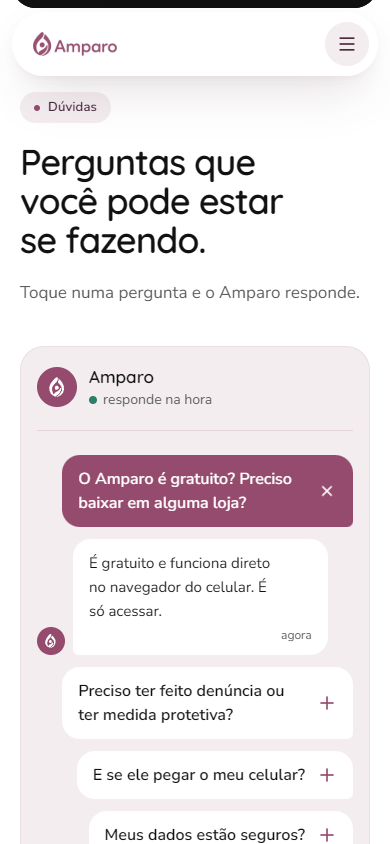
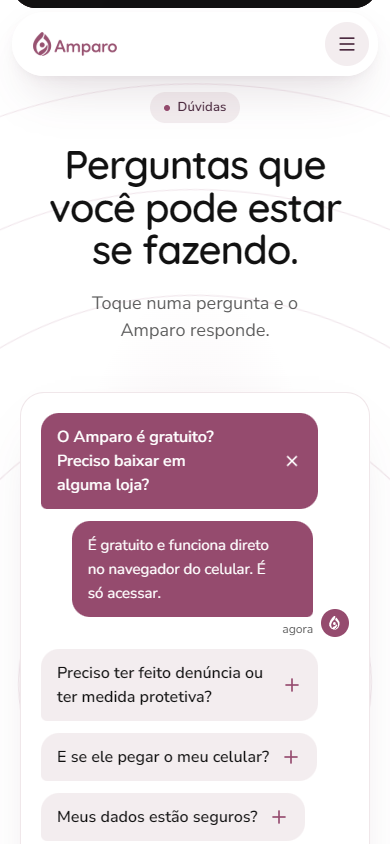
feat: FAQ em uma coluna com aneis ao fundo, perguntas a esquerda e respostas vinho a direita

diff --git a/src/sections/Faq.tsx b/src/sections/Faq.tsx
@@ -1,36 +1,27 @@
 import { useGSAP } from '@gsap/react'
 import clsx from 'clsx'
-import { Plus, Smartphone } from 'lucide-react'
+import { Plus } from 'lucide-react'
 import { useEffect, useId, useRef, useState } from 'react'
 import { BrandDrop } from '../components/ui/BrandDrop'
-import { Button } from '../components/ui/Button'
 import { Chip } from '../components/ui/Chip'
-import { EmergencyBar } from '../components/ui/EmergencyBar'
+import { HeroRings } from '../components/ui/HeroRings'
 import { RichText } from '../components/ui/RichText'
 import { Container, SectionHeading } from '../components/ui/Section'
-import { cta, faq, type Rich } from '../content/copy'
-import { APP_URL } from '../lib/config'
+import { faq, type Rich } from '../content/copy'
 import { gsap } from '../lib/gsap'
 import { useReducedMotion } from '../lib/useReducedMotion'
 
 const BORDER = 'border border-[rgb(228_211_217/0.55)]'
-const SOFT_SHADOW = 'shadow-[0_1px_2px_rgb(75_42_63/0.04),0_16px_40px_-24px_rgb(75_42_63/0.16)]'
 
 /** Texto puro de uma resposta (para o JSON-LD). */
 const plain = (parts: Rich) =>
   parts.map((p) => (typeof p === 'string' ? p : 'strong' in p ? p.strong : p.em)).join('')
 
 /** Avatar do Amparo: círculo vinho com a gota branca. */
-function Avatar({ size = 'sm' }: { size?: 'sm' | 'md' }) {
+function Avatar() {
   return (
-    <span
-      aria-hidden
-      className={clsx(
-        'grid shrink-0 place-items-center rounded-full bg-vinho text-white',
-        size === 'md' ? 'size-10' : 'size-7',
-      )}
-    >
-      <BrandDrop className={size === 'md' ? 'h-5' : 'h-3.5'} />
+    <span aria-hidden className="grid size-7 shrink-0 place-items-center rounded-full bg-vinho text-white">
+      <BrandDrop className="h-3.5" />
     </span>
   )
 }
@@ -106,7 +97,7 @@ export function Faq() {
       mm.add('(prefers-reduced-motion: no-preference)', () => {
         const q = gsap.utils.selector(root)
         gsap.from(q('[data-faq-q]'), {
-          x: 24,
+          x: -24,
           autoAlpha: 0,
           filter: 'blur(6px)',
           duration: 0.6,
@@ -115,6 +106,9 @@ export function Faq() {
           clearProps: 'filter,transform',
           scrollTrigger: { trigger: q('[data-faq-panel]')[0], start: 'top 80%', once: true },
         })
+        // Anéis ao fundo: giro muito lento + respiração suave (não disputam com o card).
+        gsap.to(q('[data-faq-rings]'), { rotate: 360, duration: 240, ease: 'none', repeat: -1 })
+        gsap.fromTo(q('[data-faq-rings]'), { opacity: 0.7 }, { opacity: 1, duration: 5, ease: 'sine.inOut', yoyo: true, repeat: -1 })
       })
       return () => mm.revert()
     },
@@ -136,65 +130,59 @@ export function Faq() {
       ref={root}
       id="faq"
       aria-labelledby="faq-title"
-      className="bg-branco py-[72px] lg:py-[120px]"
+      className="relative isolate overflow-clip bg-branco py-[72px] lg:py-[120px]"
     >
       <script type="application/ld+json" dangerouslySetInnerHTML={{ __html: JSON.stringify(jsonLd) }} />
-      <Container className="flex flex-col gap-10 lg:grid lg:grid-cols-12 lg:gap-16">
-        {/* Esquerda: no desktop fixa; no celular os filhos entram na ordem título → painel → CTA */}
-        <div className="max-lg:contents lg:sticky lg:top-[120px] lg:col-span-5 lg:self-start">
-          <div className="max-lg:order-1">
-            <div data-appear>
-              <Chip dot>{faq.chip}</Chip>
-            </div>
-            <SectionHeading
-              id="faq-title"
-              className="mt-5 !text-[clamp(2.25rem,3.6vw,3.25rem)] !leading-[1.08] font-semibold"
-            >
-              {faq.h2}
-            </SectionHeading>
-            <p data-appear className="mt-5 lead text-pretty text-texto-secundario">
-              {faq.sub}
-            </p>
-          </div>
-          <div className="max-lg:order-3 lg:mt-10">
-            <div className={clsx('rounded-card-lg bg-white p-6', BORDER, SOFT_SHADOW)}>
-              <div className="flex items-center gap-3">
-                <Avatar size="md" />
-                <p className="font-display text-lg font-semibold text-texto">{faq.ajuda}</p>
-              </div>
-              <Button href={APP_URL} target="_blank" rel="noopener" icon={<Smartphone />} className="mt-5">
-                {cta.acessar}
-              </Button>
-            </div>
-            {/* 190 e 180 sempre visíveis no FAQ (não negociável do CLAUDE.md) */}
-            <EmergencyBar compact className="mt-4 [&_ul]:lg:flex-col [&_ul]:lg:gap-3" />
+      {/* Fundo: brilho rosado do centro + anéis do hero atrás do card */}
+      <div aria-hidden className="pointer-events-none absolute inset-0 -z-10">
+        <div
+          className="absolute inset-0"
+          style={{ background: 'radial-gradient(55% 50% at 50% 58%, rgb(149 75 110 / 0.12) 0%, transparent 70%)' }}
+        />
+        <div className="absolute top-[58%] left-1/2 size-0">
+          <div data-faq-rings className="absolute top-0 left-0 size-0">
+            <HeroRings className="top-0 left-0" />
           </div>
         </div>
+      </div>
 
-        {/* Direita: painel de conversa */}
+      <Container>
+        {/* Cabeçalho centralizado */}
+        <div className="mx-auto flex max-w-[760px] flex-col items-center text-center">
+          <div data-appear>
+            <Chip dot>{faq.chip}</Chip>
+          </div>
+          <SectionHeading
+            id="faq-title"
+            className="mt-5 max-w-[22ch] !text-[clamp(2.5rem,4.2vw,3.75rem)] !leading-[1.06] font-semibold"
+          >
+            {faq.h2}
+          </SectionHeading>
+          <p
+            data-appear
+            className="mt-5 max-w-[560px] text-[clamp(1.125rem,1.6vw,1.375rem)] leading-[1.5] text-pretty text-texto-secundario"
+          >
+            {faq.sub}
+          </p>
+        </div>
+
+        {/* Card da conversa */}
         <div
           data-faq-panel
-          className={clsx('rounded-[24px] bg-superficie p-4 max-lg:order-2 md:p-8 lg:col-span-7', BORDER)}
+          className={clsx(
+            'mx-auto mt-12 max-w-[880px] rounded-[24px] bg-white p-5 shadow-[0_24px_60px_-30px_rgb(75_42_63/0.22)] md:p-10',
+            BORDER,
+          )}
         >
-          <div className="flex items-center gap-3 border-b border-[rgb(228_211_217/0.9)] pb-5">
-            <Avatar size="md" />
-            <div>
-              <p className="font-display font-semibold text-texto">{faq.painel.nome}</p>
-              <p className="flex items-center gap-1.5 text-sm text-texto-secundario">
-                <span aria-hidden className="size-2 rounded-full bg-confirma" />
-                {faq.painel.status}
-              </p>
-            </div>
-          </div>
-
-          <ul className="mt-6 space-y-3">
+          <ul className="space-y-3">
             {faq.items.map((f, i) => {
               const isOpen = open === i
               const bid = `${uid}-q${i}`
               const rid = `${uid}-a${i}`
               return (
                 <li key={f.q}>
-                  <div className="flex justify-end">
+                  {/* Pergunta (usuária) à esquerda */}
+                  <div className="flex justify-start">
                     <button
                       id={bid}
                       type="button"
@@ -203,11 +191,11 @@ export function Faq() {
                       aria-controls={rid}
                       onClick={() => setOpen(isOpen ? -1 : i)}
                       className={clsx(
-                        'flex min-h-11 max-w-[92%] cursor-pointer items-center gap-3 rounded-[18px] rounded-br-[6px] px-4 py-3 text-left text-base font-semibold transition-[background-color,color,translate] duration-300 ease-amparo md:max-w-[85%]',
+                        'flex min-h-11 max-w-[90%] cursor-pointer items-center gap-3 rounded-[18px] rounded-bl-[6px] px-4 py-3 text-left text-base font-semibold transition-[background-color,color,translate] duration-300 ease-amparo md:max-w-[80%]',
                         'focus-visible:outline-2 focus-visible:outline-offset-2 focus-visible:outline-vinho',
                         isOpen
                           ? 'bg-vinho text-white'
-                          : 'bg-white text-texto hover:-translate-x-0.5 hover:bg-[rgb(149_75_110/0.06)] motion-reduce:hover:translate-x-0',
+                          : 'bg-superficie text-texto hover:translate-x-0.5 hover:bg-[rgb(149_75_110/0.1)] motion-reduce:hover:translate-x-0',
                       )}
                     >
                       <span className="flex-1 text-pretty">{f.q}</span>
@@ -222,6 +210,7 @@ export function Faq() {
                     </button>
                   </div>
 
+                  {/* Resposta (Amparo) à direita */}
                   <div
                     id={rid}
                     role="region"
@@ -230,32 +219,31 @@ export function Faq() {
                     hidden={i !== 0}
                     className="overflow-hidden"
                   >
-                    <div className="flex items-end gap-2 pt-3 md:max-w-[85%] max-md:max-w-[92%]">
-                      <Avatar />
+                    <div className="ml-auto flex max-w-[90%] items-end justify-end gap-2 pt-3 md:max-w-[80%]">
                       {/* Digitação (some quando a resposta chega) */}
                       <div
                         data-faq-typing
                         aria-hidden
                         style={{ display: 'none' }}
-                        className="flex items-center gap-1 rounded-[18px] rounded-bl-[6px] bg-white px-4 py-3.5"
+                        className="flex items-center gap-1 rounded-[18px] rounded-br-[6px] bg-vinho px-4 py-3.5"
                       >
                         {[0, 1, 2].map((k) => (
                           <span
                             key={k}
-                            className="size-2 animate-[faq-dot_1s_ease-in-out_infinite] rounded-full bg-vinho/40"
+                            className="size-2 animate-[faq-dot_1s_ease-in-out_infinite] rounded-full bg-white/70"
                             style={{ animationDelay: `${k * 0.15}s` }}
                           />
                         ))}
                       </div>
-                      <div
-                        data-faq-answer
-                        className="rounded-[18px] rounded-bl-[6px] bg-white px-4 py-3 text-[15px] leading-[1.6] text-pretty text-texto"
-                      >
-                        <p>
-                          <RichText parts={f.a} strongClassName="font-bold text-vinho-profundo" />
-                        </p>
+                      <div data-faq-answer className="min-w-0">
+                        <div className="rounded-[18px] rounded-br-[6px] bg-vinho px-4 py-3 text-[15px] leading-[1.6] text-pretty text-white">
+                          <p>
+                            <RichText parts={f.a} strongClassName="font-bold text-white" />
+                          </p>
+                        </div>
                         <p className="mt-1 text-right text-xs text-texto-secundario">{faq.painel.agora}</p>
                       </div>
+                      <Avatar />
                     </div>
                   </div>
                 </li>

diff --git a/src/content/copy.ts b/src/content/copy.ts
@@ -353,8 +353,7 @@ export const faq = {
   chip: 'Dúvidas',
   h2: 'Perguntas que você pode estar se fazendo.',
   sub: 'Toque numa pergunta e o Amparo responde.',
-  painel: { nome: 'Amparo', status: 'responde na hora', agora: 'agora' },
-  ajuda: 'Ainda ficou com dúvida?',
+  painel: { agora: 'agora' },
   items: [
     { q: 'O Amparo é gratuito? Preciso baixar em alguma loja?', a: ['É gratuito e funciona direto no navegador do celular. É só acessar.'] satisfies Rich },
     { q: 'Preciso ter feito denúncia ou ter medida protetiva?', a: ['Não. Você pode usar o Amparo a qualquer momento, inclusive antes de decidir denunciar.'] satisfies Rich },

diff --git a/NOTES.md b/NOTES.md
@@ -607,3 +607,11 @@ Referências: NextPay mobile (banner) e Gardance mobile (palco). Os sites não p
 - Movimento reduzido: tudo parado (sem magnetismo, sem deriva, marca d'água visível a 4%, tela inicial no celular).
 - Os componentes antigos `ConcentricRings` e `CircularBadge` ficaram sem uso na página.
 - Prints em `screenshots/cta/` e `screenshots/rodape/` (1440, 390, `reduzido/`).
+
+## `#faq` — ajustes 2 (11/11/2026, pedido do cliente)
+- Saem a coluna esquerda (mini-cartão "Ainda ficou com dúvida?" e a faixa 190/180 — os números seguem no rodapé, coluna "Seus direitos") e o cabeçalho do painel (avatar, "Amparo", "responde na hora", ponto verde, linha). Textos retirados do `copy.ts`/COPY.
+- Uma coluna centralizada: chip, H2 `clamp(40px, 4.2vw, 60px)` em 2 linhas, subtítulo `clamp(18px, 1.6vw, 22px)` até 560px; card a 48px, até 880px.
+- Fundo branco com brilho radial vinho 12% no centro e os anéis do hero (`HeroRings`) atrás do card, girando muito devagar (240s/volta) e respirando (opacidade 0,7 ↔ 1, 5s).
+- Card branco, raio 24px, borda `rgb(228 211 217 / .55)`, sombra `0 24px 60px -30px rgb(75 42 63 / .22)`, padding 40px (20px no celular).
+- Perguntas à esquerda (`superficie`, canto inferior esquerdo 6px; aberta = vinho/branco). Respostas e pontinhos à direita (vinho com texto branco, canto inferior direito 6px, até 80% / 90% no celular, avatar à direita, "agora" embaixo). Entrada dos balões vindo da esquerda (x −24, blur 6px).
+- Accordion, teclado e JSON-LD sem mudança (`check-faq.mjs` sem erros). Prints em `screenshots/faq/`.

diff --git a/PROGRESSO.md b/PROGRESSO.md
@@ -25,6 +25,7 @@
 | 8.6 | O que sua guardiã recebe (banner) | `#guardia` | ✅ pronta — aguardando revisão dos textos |
 | 9 | FAQ em conversa + emergência | `#faq` | ✅ pronta — aguardando revisão |
 | 10/11 | CTA final (anéis do hero, celular calculadora → início, notificações, botão magnético) e rodapé (brilhos, 3 colunas de links, marca d'água do logotipo) — prints em `./screenshots/cta/` e `./screenshots/rodape/` | (ver git log) |
+| 9b | FAQ em uma coluna centralizada com anéis do hero ao fundo; perguntas à esquerda, respostas vinho à direita; sem a coluna do CTA e sem o cabeçalho do painel — prints em `./screenshots/faq/` | (ver git log) |
 | 10 | CTA final | `#cta` | ✅ pronta — aguardando revisão |
 | 11 | Rodapé | — | ✅ pronto — aguardando revisão |
 

diff --git a/COPY.md b/COPY.md
@@ -190,8 +190,7 @@ lang: pt-BR
 - Chip: **Dúvidas**
 - H2: **Perguntas que você pode estar se fazendo.**
 - Subtítulo: Toque numa pergunta e o Amparo responde.
-- Painel de conversa: **Amparo** · responde na hora · resposta com "agora"
-- Mini-cartão: Ainda ficou com dúvida? · **Acessar o Amparo**
+- Card de conversa: perguntas à esquerda, respostas do Amparo à direita com "agora"
 - Faixa de emergência: **Em perigo agora? Ligue 190.** · **Precisa de orientação? Ligue 180**: gratuito, sigiloso, 24 horas.
 1. **O Amparo é gratuito? Preciso baixar em alguma loja?** É gratuito e funciona direto no navegador do celular. É só acessar.
 2. **Preciso ter feito denúncia ou ter medida protetiva?** Não. Você pode usar o Amparo a qualquer momento, inclusive antes de decidir denunciar.
